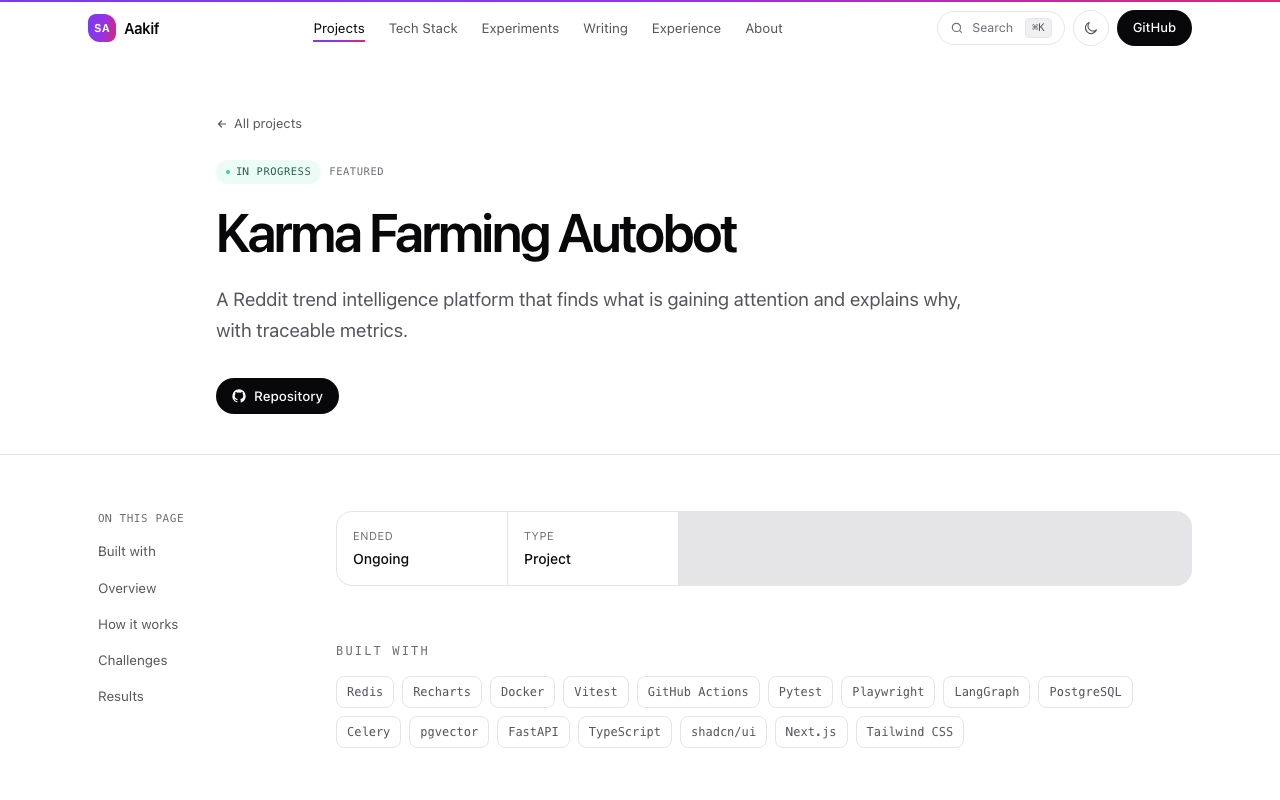
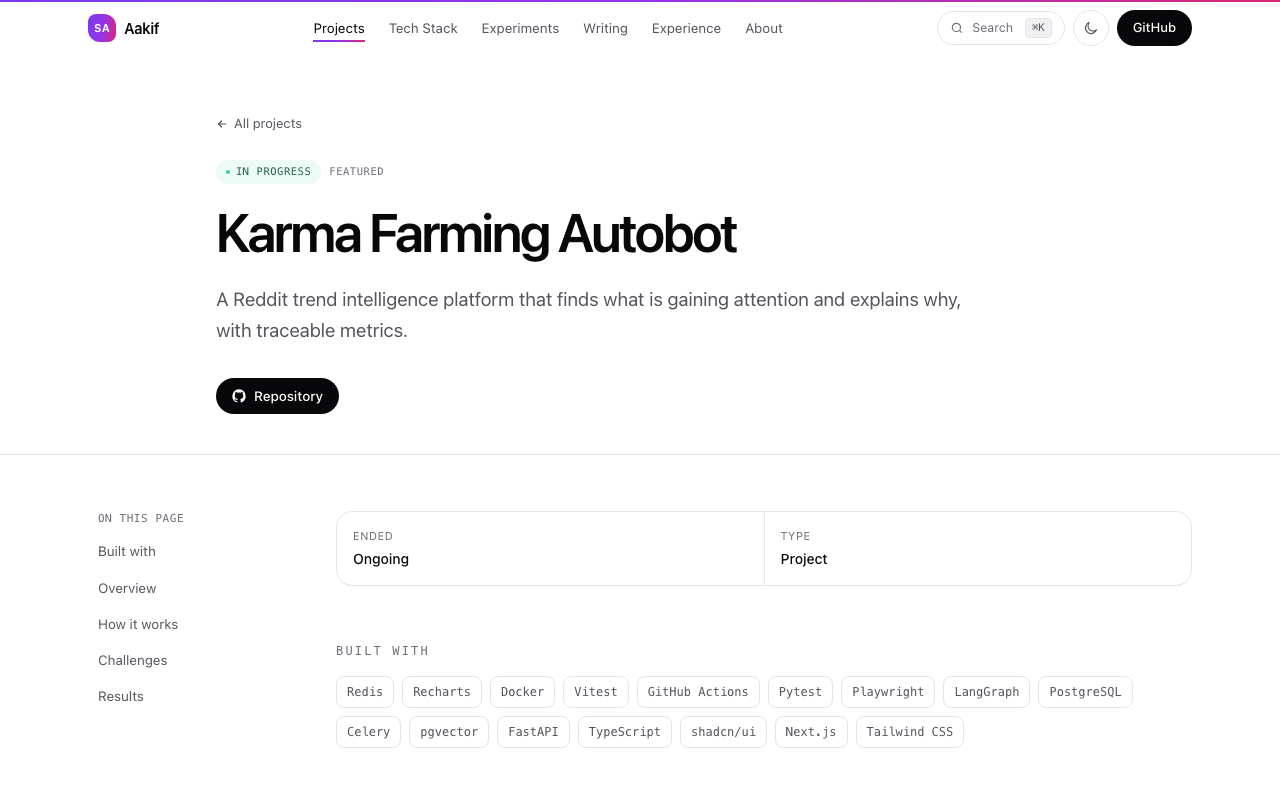
Project facts row fills its width; retake screenshots
A fixed 5-column grid left empty line-coloured cells when a project had fewer facts.

Changed region(s): [[0.5312, 0.625, 0.9375, 0.75], [0.4062, 0.6875, 0.4375, 0.7188]]

diff --git a/src/components/case-study.tsx b/src/components/case-study.tsx
@@ -126,9 +126,10 @@ export function CaseStudyView({ data }: { data: CaseStudyData }) {
           </details>
         )}
         {facts.length > 0 && (
-          <dl className="mb-14 grid grid-cols-2 gap-px overflow-hidden rounded-2xl border border-line bg-line sm:grid-cols-5">
+          // Wrapping flex, not a fixed grid: cells grow to fill each row, so 2 facts never leave empty (line-coloured) cells.
+          <dl className="mb-14 flex flex-wrap gap-px overflow-hidden rounded-2xl border border-line bg-line">
             {facts.map(([k, v]) => (
-              <div key={k} className="bg-card px-4 py-4">
+              <div key={k} className="min-w-0 flex-1 basis-32 bg-card px-4 py-4">
                 <dt className="text-[11px] uppercase tracking-wider text-faint">{k}</dt>
                 <dd className="mt-1 text-[14px] font-medium capitalize">{v}</dd>
               </div>

diff --git a/docs/HANDOFF.md b/docs/HANDOFF.md
@@ -4,7 +4,7 @@
 keep going without re-asking anything listed under **Decisions already made**. Update this
 file (status table and next steps) at the end of every session.
 
-Last updated: 2026-11-19 (session 3).
+Last updated: 2026-11-19 (session 4).
 
 ## Where things are
 
@@ -71,9 +71,12 @@ If the user authorizes the Supabase MCP (`/mcp`), use it for read-only checks fi
 - Repo secrets for CI: `NEXT_PUBLIC_SUPABASE_URL`, `NEXT_PUBLIC_SUPABASE_ANON_KEY` (user sets them; CI only runs once pushed).
 - Admin Playwright journeys need a test account — ask the user before adding any.
 - Screenshots (`docs/screenshots/`) were taken from a local `next start` against the live DB; retake after visual changes.
-- Possible next work (ask first): fix the link-preview redirect SSRF gap (SECURITY.md "Known limits"); a baseline
-  migration capturing the dashboard-created schema so a fresh DB can be built; the empty grey cell in the
-  project page facts row when only 2 facts exist.
+- Done in session 4: link previews re-check every redirect hop and resolved IPs, and refuse IPv4-mapped IPv6;
+  the project facts row fills its width (no empty cells).
+- Possible next work (ask first): a baseline migration capturing the dashboard-created schema so a fresh DB can
+  be built. It needs a schema dump (`npx supabase db dump --schema public`, after `link`) or the Supabase MCP.
+- Gotcha: `pkill -f "next start"` misses the server (its process is named `next-server`). Stop it by port:
+  `kill $(lsof -tiTCP:3100 -sTCP:LISTEN)`.
 
 ### Small follow-ups noticed
 - Vercel env: set `NEXT_PUBLIC_SITE_URL=https://portfolio-pi-weld-92.vercel.app` (local `.env.local` has
